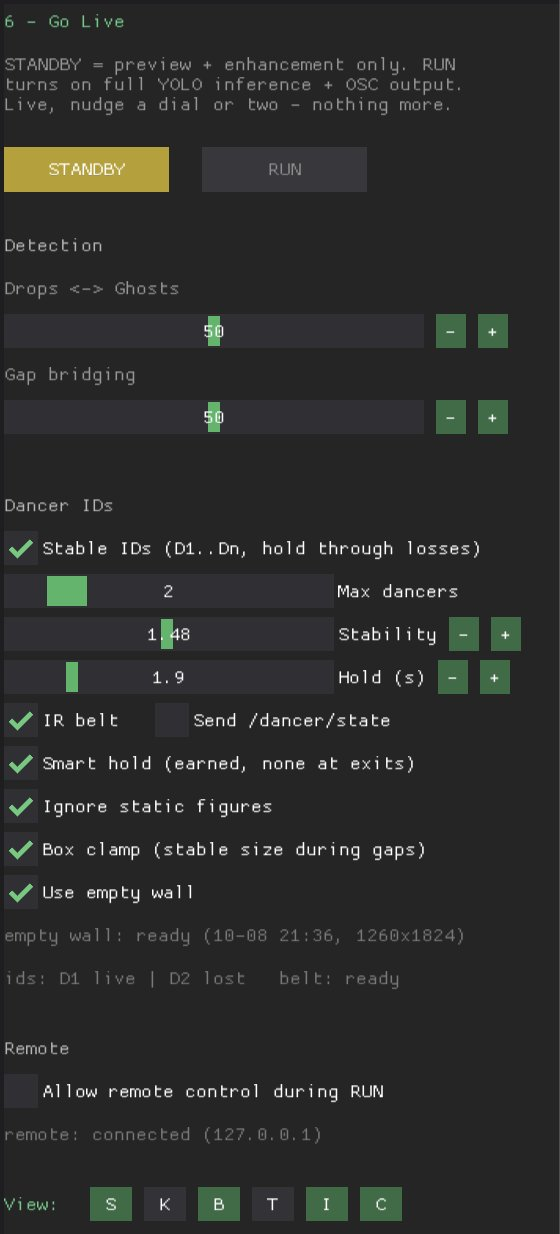
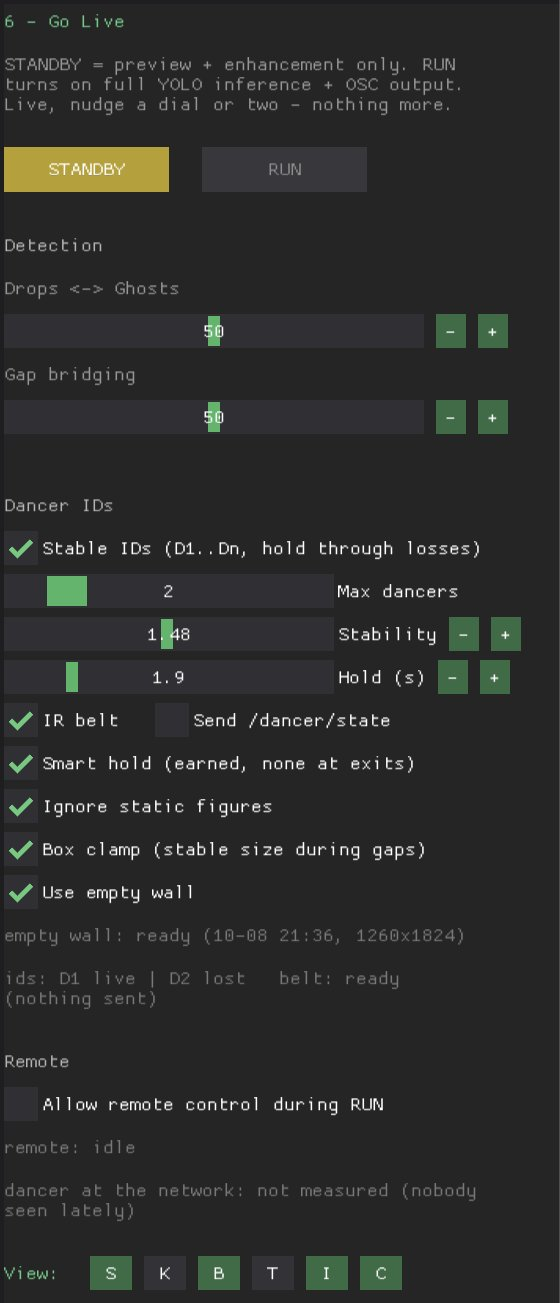
docs: the guide's out-of-date pictures retaken on the final build [S2]
The Live panel's picture showed the slots' old words; retaken on this build, with the two
whole-window pictures where the same session gave them. Captions follow.

Refs-37: walldance#t-062
Claude-Session: https://claude.ai/code/session_015PNf5ufkyz9hfztEXAvBmu

diff --git a/docs/GUIDE_OPERATEUR_FR.md b/docs/GUIDE_OPERATEUR_FR.md
@@ -81,7 +81,7 @@ La fiche de deux pages (*FICHE_TECHNICIEN_FR*) résume ce guide. Ce guide, on le
 | ④ | Vérifier | `2 Calibrate` | lire le bilan (`Check readiness`) | le bilan dit `READY` <!-- src: gui_builder.py:643 «2 Calibrate» ; gui_builder.py:901 «Check readiness» ; core/ops_monitor.py:59 «READY» @«"READY"» --> |
 | ⑤ | Le spectacle | `3 Live` | `RUN`, puis ne plus toucher | la ligne de santé est verte (`OK`) <!-- src: gui_builder.py:644 «3 Live» ; gui_builder.py:1135 «RUN» @«label="RUN"» ; core/ops_monitor.py:55 «OK» @«"OK"» --> |
 
-<figure style="break-inside: avoid; page-break-inside: avoid; margin: 0.8em 0;"><img src="img/run_vert.jpg" width="100%" alt="La fenêtre WallDance en RUN, la ligne de santé verte"><figcaption style="font-size: 0.9em; color: #444;">La fenêtre en RUN : la ligne de santé verte, OK - all 7 checks fine. En rouge en haut à gauche, le message Go-Live check du bilan fait au passage en RUN (sur le banc, rien n'écoutait l'OSC et la lumière de cette prise est rouge). Image de banc (27/11) : une prise du 8/10 (le mur) lue comme caméra, d'où [CV] dans la barre du haut ; au spectacle, [IDS].</figcaption></figure>
+<figure style="break-inside: avoid; page-break-inside: avoid; margin: 0.8em 0;"><img src="img/run_vert.jpg" width="100%" alt="La fenêtre WallDance en RUN, la ligne de santé verte"><figcaption style="font-size: 0.9em; color: #444;">La fenêtre en RUN : la ligne de santé verte, OK - all 7 checks fine. En rouge en haut à gauche, le message Go-Live check du bilan fait au passage en RUN (sur le banc, rien n'écoutait l'OSC et la lumière de cette prise est rouge). Image de banc (28/11) : une prise du 8/10 (le mur) lue comme caméra, d'où [CV] dans la barre du haut ; au spectacle, [IDS]. REMOTE en orange après OSC: ON : l'image a été prise par l'accès à distance, comme le support la voit (§9).</figcaption></figure>
 
 ### Les quatre règles d'or
 
@@ -211,7 +211,7 @@ Cette version est plus ancienne que ce guide : pas de ligne de santé, pas de ba
 | 7. Les enregistrements | sous les alertes | `Recordings`, `LIVE`, `REC`, les emplacements 1 à 9 <!-- src: gui_builder.py:1386 «Recordings» @«"Recordings"» ; gui_builder.py:1423 «LIVE» @«label="LIVE"» ; gui_builder.py:1430 «REC» @«label="REC"» --> |
 | 8. Barre du bas | tout en bas | des chiffres de vitesse, rien à faire |
 
-<figure style="break-inside: avoid; page-break-inside: avoid; margin: 0.8em 0;"><img src="img/zones.jpg" width="100%" alt="La fenêtre entière, les huit zones numérotées"><figcaption style="font-size: 0.9em; color: #444;">Les huit zones du §4. Les cadres orange et leurs numéros sont ajoutés sur l'image : l'app ne les montre pas. Image de banc (27/11) : une prise du 8/10 (le mur) lue comme caméra, d'où [CV] dans la barre du haut ; au spectacle, [IDS].</figcaption></figure>
+<figure style="break-inside: avoid; page-break-inside: avoid; margin: 0.8em 0;"><img src="img/zones.jpg" width="100%" alt="La fenêtre entière, les huit zones numérotées"><figcaption style="font-size: 0.9em; color: #444;">Les huit zones du §4. Les cadres orange et leurs numéros sont ajoutés sur l'image : l'app ne les montre pas. Image de banc (28/11) : une prise du 8/10 (le mur) lue comme caméra, d'où [CV] dans la barre du haut ; au spectacle, [IDS].</figcaption></figure>
 
 ### 4.1 La barre du haut
 
@@ -271,7 +271,7 @@ Cette version est plus ancienne que ce guide : pas de ligne de santé, pas de ba
   - `(nothing sent)` à la fin (rien n'est envoyé) : en `STANDBY` ou l'OSC coupé, les visuels ne reçoivent rien ; la ligne montre l'état sans le temps. <!-- src: core/points_report.py:62 «(nothing sent)» ; gui_builder.py:1124 «STANDBY» @«label="STANDBY"» -->
 - **Ce qu'est un point tenu.** Quand la détection perd un danseur, l'app garde son point sur la forme qui bouge encore à sa place, jusqu'à 30 secondes après la dernière fois que la détection ou sa ceinture l'a vu. Sur un mur vide où quelque chose bouge (un rideau, une corde, une fenêtre), cela peut faire un point sur personne : **si un point reste là où il n'y a personne, regarder ce qui bouge à cet endroit.**
 
-<figure style="break-inside: avoid; page-break-inside: avoid; margin: 0.8em 0;"><img src="img/panneau_live.jpg" width="42%" alt="Le panneau 3 Live en entier"><figcaption style="font-size: 0.9em; color: #444;">Le panneau 3 Live en entier (6 - Go Live), ici en STANDBY : les réglages de détection, les identités des danseurs, la commande à distance, les vues. Image de banc (27/11), prise avant les changements du 27/11 au portable : sa ligne ids: D1 live | D2 lost se lit maintenant ids: D1 live | D2 lost   belt: ready   (nothing sent) en STANDBY, car rien ne part aux visuels (§4.4).</figcaption></figure>
+<figure style="break-inside: avoid; page-break-inside: avoid; margin: 0.8em 0;"><img src="img/panneau_live.jpg" width="42%" alt="Le panneau 3 Live en entier"><figcaption style="font-size: 0.9em; color: #444;">Le panneau 3 Live en entier (6 - Go Live), ici en STANDBY : les réglages de détection, les identités des danseurs, la commande à distance, les vues. Image de banc (28/11) : la ligne ids: finit par (nothing sent), car en STANDBY rien ne part aux visuels (§4.4).</figcaption></figure>
 
 ### 4.5 La ligne de santé et les alertes
 
